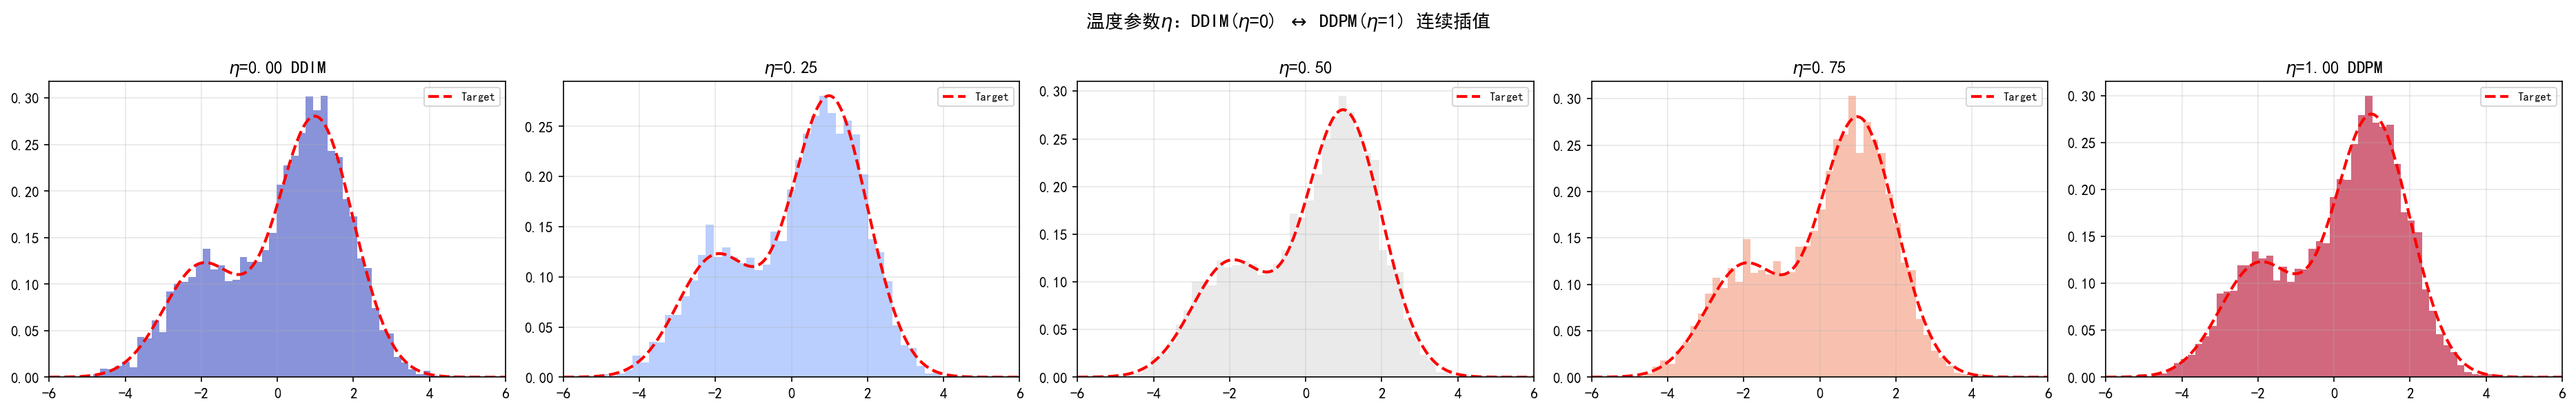
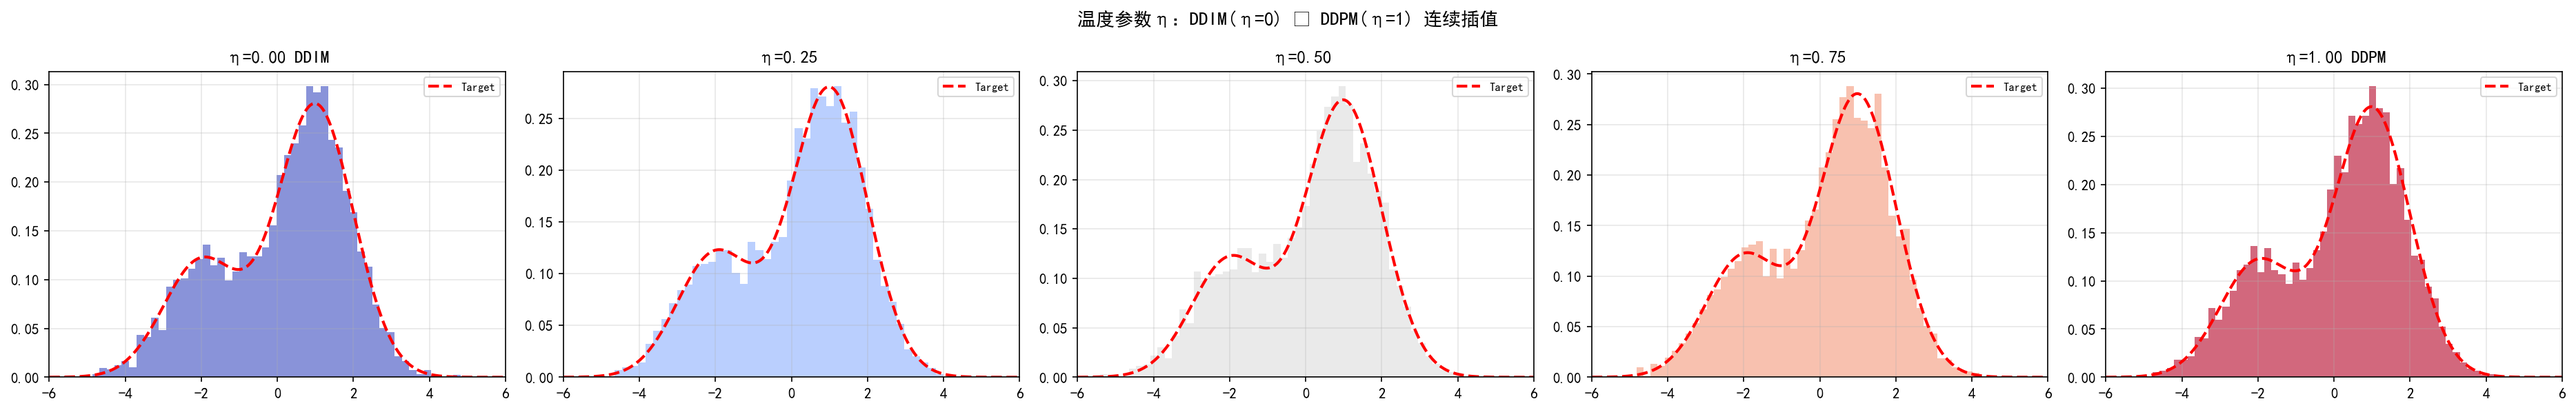
·

diff --git a/第7章 扩散模型：SDE视角/第七章 配套实验/7.4-1/7.4-1.py b/第7章 扩散模型：SDE视角/第七章 配套实验/7.4-1/7.4-1.py
@@ -246,14 +246,15 @@ def ddim_sample_vp(score_fn, N_particles, N_steps, T=1.0, eta=0.0,
     return np.array(trajectory)
 
 # DDIM采样（η=0，确定性）
+# 使用与PF-ODE相同的步数（500步），确保等价性验证的公平性
 np.random.seed(42)
-ddim_traj = ddim_sample_vp(vp_score_analytic, N_particles, 200, eta=0.0)
+ddim_traj = ddim_sample_vp(vp_score_analytic, N_particles, 500, eta=0.0)
 ddim_final = ddim_traj[-1]
 
 print(f"DDIM(η=0)采样结果: μ={np.mean(ddim_final):.4f}, σ²={np.var(ddim_final):.4f}")
 
 # 验证DDIM(η=0)与PF-ODE的等价性
-# 使用相同初始噪声和步数，比较两者最终样本的KS距离
+# 使用相同初始噪声、相同步数（500步），比较两者最终样本的KS距离
 try:
     ks_ddim_vs_pde, _ = sp_stats.ks_2samp(ddim_final, pf_final)
     print(f"DDIM(η=0) vs PF-ODE KS距离: {ks_ddim_vs_pde:.4f} (应接近0，验证等价性)")
@@ -261,9 +262,53 @@ except:
     ks_ddim_vs_pde = abs(np.mean(ddim_final) - np.mean(pf_final))
     print(f"DDIM(η=0) vs PF-ODE 均值差: {ks_ddim_vs_pde:.4f}")
 
-# DDPM采样（η=1，随机）
+# 更严格的验证：使用相同的初始噪声向量，逐步比较轨迹
+# 因为两者都是确定性映射，给定相同初始点应该走出几乎相同的轨迹
 np.random.seed(42)
-ddpm_as_ddim = ddim_sample_vp(vp_score_analytic, N_particles, 200, eta=1.0)
+x_init = np.random.randn(N_particles)  # 相同的初始噪声
+
+# 重新运行PF-ODE，使用显式传入的初始点
+pf_traj_strict = [x_init.copy()]
+x_pf = x_init.copy()
+for i in range(500):
+    t = 1.0 - i * (1.0 / 500)
+    beta_t = vp_beta(t)
+    score = vp_score_analytic(x_pf, t)
+    drift = beta_t * (1.0 / 500) * (0.5 * x_pf + 0.5 * score)
+    x_pf = x_pf + drift
+    pf_traj_strict.append(x_pf.copy())
+
+# 重新运行DDIM，使用相同的初始点
+ddim_traj_strict = [x_init.copy()]
+x_ddim = x_init.copy()
+for i in range(500):
+    t = 1.0 - i * (1.0 / 500)
+    t_prev = max(t - 1.0 / 500, 0)
+    mean_t, std_t = vp_marginal(t)
+    alpha_bar_t = mean_t**2
+    mean_prev, std_prev = vp_marginal(t_prev)
+    alpha_bar_prev = mean_prev**2
+    score = vp_score_analytic(x_ddim, t)
+    eps_theta = -std_t * score
+    x0_hat = (x_ddim - std_t * eps_theta) / (mean_t + 1e-10)
+    sigma_eta = 0.0  # η=0
+    dir_xt = np.sqrt(max(1 - alpha_bar_prev - sigma_eta**2, 0)) * eps_theta
+    x_ddim = np.sqrt(alpha_bar_prev) * x0_hat + dir_xt
+    ddim_traj_strict.append(x_ddim.copy())
+
+# 逐步比较轨迹差异（取几个关键步骤）
+print("\n轨迹逐步对比（相同初始噪声，500步）：")
+for step_idx in [100, 200, 300, 400, 500]:
+    pf_step = pf_traj_strict[step_idx]
+    ddim_step = ddim_traj_strict[step_idx]
+    max_diff = np.max(np.abs(pf_step - ddim_step))
+    mean_diff = np.mean(np.abs(pf_step - ddim_step))
+    print(f"  步骤{step_idx}: 最大差异={max_diff:.6f}, 平均差异={mean_diff:.6f}")
+
+# DDPM采样（η=1，随机）
+# 使用与DDIM相同的步数（500步），确保公平对比
+np.random.seed(42)
+ddpm_as_ddim = ddim_sample_vp(vp_score_analytic, N_particles, 500, eta=1.0)
 ddpm_final = ddpm_as_ddim[-1]
 
 print(f"DDPM(η=1)采样结果: μ={np.mean(ddpm_final):.4f}, σ²={np.var(ddpm_final):.4f}")
@@ -285,7 +330,7 @@ eta_results = {}
 
 for eta in eta_values:
     np.random.seed(42)
-    traj = ddim_sample_vp(vp_score_analytic, N_particles, 200, eta=eta)
+    traj = ddim_sample_vp(vp_score_analytic, N_particles, 500, eta=eta)
     final = traj[-1]
     eta_results[eta] = final
 
@@ -383,12 +428,12 @@ for i, eta in enumerate(eta_values):
                  color=plt.cm.coolwarm(eta))
     axes[i].plot(x_grid, gm1d_pdf(x_grid), 'r--', lw=2, label='Target')
     label = 'DDIM' if eta == 0 else ('DDPM' if eta == 1 else '')
-    axes[i].set_title(f'$\\eta$={eta:.2f} {label}')
+    axes[i].set_title(f'η={eta:.2f} {label}')
     axes[i].set_xlim(-6, 6)
     axes[i].legend(fontsize=8)
     axes[i].grid(alpha=0.3)
 
-fig.suptitle('温度参数$\\eta$：DDIM($\\eta$=0) $\\leftrightarrow$ DDPM($\\eta$=1) 连续插值', fontsize=13)
+fig.suptitle('温度参数η：DDIM(η=0) ↔ DDPM(η=1) 连续插值', fontsize=13)
 plt.tight_layout()
 plt.savefig(os.path.join(SAVE_DIR, '步骤3_η插值.png'), dpi=150, bbox_inches='tight')
 plt.close()
@@ -396,8 +441,8 @@ plt.close()
 # 图3：DDPM vs DDIM质量对比
 fig, (ax1, ax2) = plt.subplots(1, 2, figsize=(14, 5))
 
-ax1.plot(step_counts, results['DDPM'], 'bo-', lw=2, markersize=8, label='DDPM ($\\eta$=1)')
-ax1.plot(step_counts, results['DDIM'], 'gs-', lw=2, markersize=8, label='DDIM ($\\eta$=0)')
+ax1.plot(step_counts, results['DDPM'], 'bo-', lw=2, markersize=8, label='DDPM (η=1)')
+ax1.plot(step_counts, results['DDIM'], 'gs-', lw=2, markersize=8, label='DDIM (η=0)')
 ax1.set_xlabel('采样步数')
 ax1.set_ylabel('KS统计量（越小越好）')
 ax1.set_title('DDPM vs DDIM 采样质量')

diff --git a/第7章 扩散模型：SDE视角/第七章 配套实验/7.6-1/7.6-1.py b/第7章 扩散模型：SDE视角/第七章 配套实验/7.6-1/7.6-1.py
@@ -175,8 +175,11 @@ snr_cos = alpha_bar_cos / (1 - alpha_bar_cos + 1e-30)
 beta_cos = np.array([vp_beta_cosine(t) for t in t_grid])
 
 # 几何调度（VE-SDE）
+# 注意：VE-SDE的原始SMLD实现是从高噪声退火到低噪声（σ_max→σ_min），
+# 但为了与VP-SDE公平对比（t=0干净数据→t=1纯噪声），
+# 这里将时间方向统一为σ_min→σ_max，使SNR单调下降
 sigma_min_ve, sigma_max_ve = 0.01, 50.0
-sigma_ve = sigma_max_ve * (sigma_min_ve / sigma_max_ve)**t_grid
+sigma_ve = sigma_min_ve * (sigma_max_ve / sigma_min_ve)**t_grid
 snr_ve = 1.0 / (sigma_ve**2 + 1e-30)
 
 # SNR在dB尺度（裁剪极端值，避免log(0)问题）
